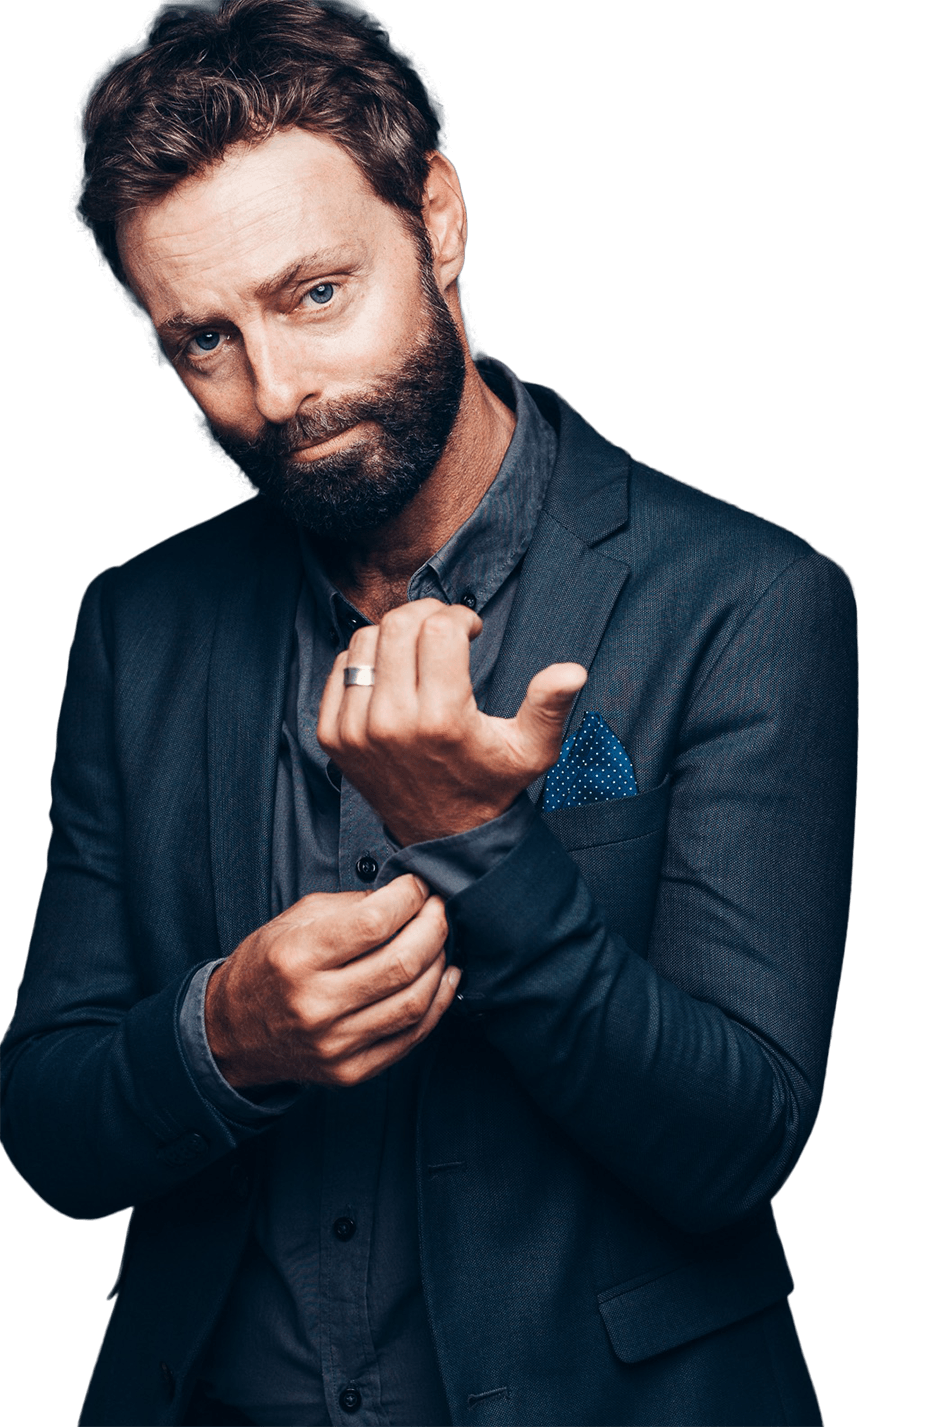
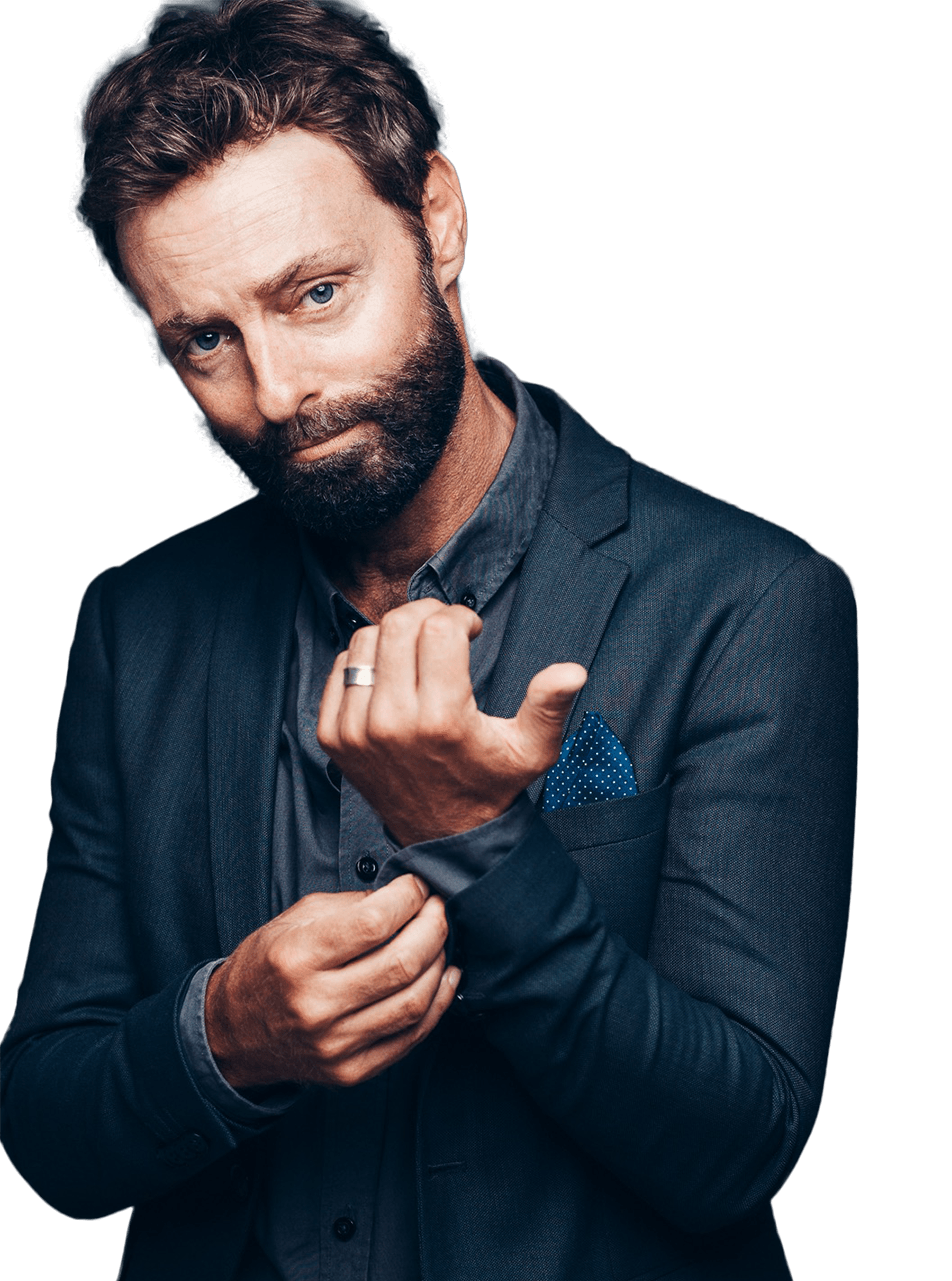
Add Header to ProductionCompany page

diff --git a/production-company.html b/production-company.html
@@ -8,6 +8,7 @@
     <link rel="stylesheet" href="https://use.fontawesome.com/releases/v5.5.0/css/all.css" integrity="sha384-B4dIYHKNBt8Bc12p+WXckhzcICo0wtJAoU8YZTY5qE0Id1GSseTk6S+L3BlXeVIU" crossorigin="anonymous">
     <link href="https://fonts.googleapis.com/css?family=Fira+Sans+Condensed|Libre+Franklin:400,500|Playfair+Display:400,700" rel="stylesheet">
     <link rel="stylesheet" type="text/css" href="css/index.css">
+    <link rel="stylesheet" type="text/css" href="css/production-company.css">
     <link rel="stylesheet" type="text/css" href="css/media-queries.css">
     <title>About Actor Dan Zahle</title>
 </head>
@@ -21,10 +22,10 @@
         <a href="https://www.imdb.com/name/nm0951969/?ref_=nv_sr_1" target="_blank"><i class="fab fa-imdb"></i></a>
     </section>
     <section class="menu__links">
-        <a class="current-page" href="index.html">ABOUT ME</a>
+        <a href="index.html">ABOUT ME</a>
         <a href="gallery.html">GALLERY</a>
         <a href="acting-credits.html">ACTING CREDITS</a>
-        <a href="production-company.html">PRODUCTION COMPANY</a>
+        <a class="current-page" href="production-company.html">PRODUCTION COMPANY</a>
         <a href="contacts.html">CONTACTS</a>
         <button class="btnCv btn--light">DOWNLOAD FULL CV</button>
     </section>
@@ -44,45 +45,51 @@
             <a href="https://www.instagram.com/dan_zahle/" target="_blank"><i class="fab fa-instagram"></i></a>
             <a href="https://www.imdb.com/name/nm0951969/?ref_=nv_sr_1" target="_blank"><i class="fab fa-imdb"></i></a>
         </section>
-        <a class="current-page" href="index.html">ABOUT ME</a>
+        <a href="index.html">ABOUT ME</a>
         <a href="gallery.html">GALLERY</a>
         <a href="acting-credits.html">ACTING CREDITS</a>
-        <a href="production-company.html">PRODUCTION COMPANY</a>
+        <a class="current-page" href="production-company.html">PRODUCTION COMPANY</a>
         <a href="contacts.html">CONTACTS</a>
         <button class="btnCv btn--light">DOWNLOAD FULL CV</button>
     </ul>
 </div>
 
-<!-- MAIN -->
-<main>
+<!-- HEADER -->
+<section class="section__header">
+    <img class="header__img" src="images/hero-img_actor-dan-zahle-v2.png" alt="Actor Dan Zahle">
+    <div class="header__text">
+        <h1>Dan Zahle</h1>
+        <h2>Actor</h2>
+    </div>
+</section>
 
 
-    <!-- FOOTER -->
-    <footer>
-        <section class="contacts">
-            <div id="manager">
-                <h2 class="contacts__name">Name Manager</h2>
-                <h3 class="contacts__title">Manager</h3>
-                <p class="contacts__phone">Phone nr</p>
-                <p class="contacts__email">email</p>
-            </div>
-            <div id="actor">
-                <h2 class="contacts__name">Dan Zahle</h2>
-                <h3 class="contacts__title">Actor</h3>
-                <p class="contacts__phone">Phone nr</p>
-                <p class="contacts__email">email</p>
-            </div>
-        </section>
-        <section class="footer__some">
-            <p>Multimedia Design @ KEA: group 11 final project</p>
-            <div>
-                <a href="https://www.facebook.com/dan.zahle" target="_blank"><i class="fab fa-facebook-square"></i></a>
-                <a href="https://www.instagram.com/dan_zahle/" target="_blank"><i class="fab fa-instagram"></i></a>
-                <a href="https://www.imdb.com/name/nm0951969/?ref_=nv_sr_1" target="_blank"><i class="fab fa-imdb"></i></a>
-            </div>
-        </section>
-    </footer>
-</main>
+
+<!-- FOOTER -->
+<footer>
+    <section class="contacts">
+        <div id="manager">
+            <h2 class="contacts__name">Name Manager</h2>
+            <h3 class="contacts__title">Manager</h3>
+            <p class="contacts__phone">Phone nr</p>
+            <p class="contacts__email">email</p>
+        </div>
+        <div id="actor">
+            <h2 class="contacts__name">Dan Zahle</h2>
+            <h3 class="contacts__title">Actor</h3>
+            <p class="contacts__phone">Phone nr</p>
+            <p class="contacts__email">email</p>
+        </div>
+    </section>
+    <section class="footer__some">
+        <p>Multimedia Design @ KEA: group 11 final project</p>
+        <div>
+            <a href="https://www.facebook.com/dan.zahle" target="_blank"><i class="fab fa-facebook-square"></i></a>
+            <a href="https://www.instagram.com/dan_zahle/" target="_blank"><i class="fab fa-instagram"></i></a>
+            <a href="https://www.imdb.com/name/nm0951969/?ref_=nv_sr_1" target="_blank"><i class="fab fa-imdb"></i></a>
+        </div>
+    </section>
+</footer>
 <script src="js/global.js"></script>
 
 </body>

diff --git a/css/index.css b/css/index.css
@@ -489,10 +489,34 @@ ul a {
   font-size: 20px;
   color: var(--color-light);
 }
-
-
 /* slide it in */
 #menuToggle input:checked ~ ul {
   transform: none;
 }
+.section__header {
+  height: 25vh;
+  width: 100vw;
+
+  display: flex;
+  align-items: center;
+
+  color: var(--color-light);
+  background-color: #162431;
+}
+.header__text {
+  margin: 0 5%;
+}
+.header__text h1 {
+  margin: 0;
+  font-size: 2.2em;
+}
+.header__text h2 {
+  margin: 0;
+  font-size: 1.3em;
+}
+.header__img {
+  margin-left: 12%;
+  height: 100%;
+}
+
 
